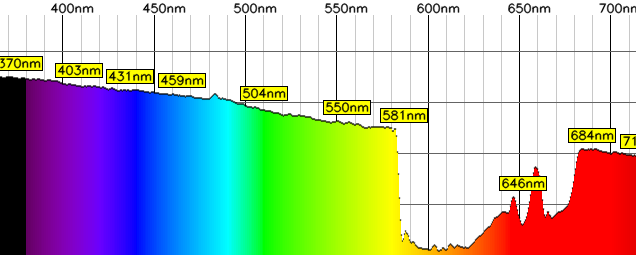
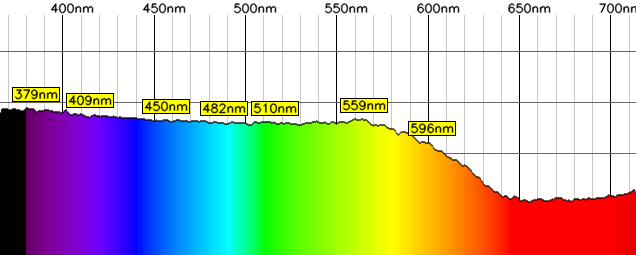
fix: turntable button add spectro caput data

Changed region(s): [[0.0, 0.2196, 1.0, 0.9882]]

diff --git a/labello/src/labello.py b/labello/src/labello.py
@@ -841,9 +841,27 @@ class GUI:
             print("error Plafe  status ")
             return
 
+        if (self.spectro_status != 'OK' ):
+            dialog = Gtk.MessageDialog(
+                title="Error spectro",
+                parent=self.window,
+                message_type=Gtk.MessageType.ERROR,
+                buttons=Gtk.ButtonsType.CLOSE,
+                text="Spectro not respond ! The shots will not include spectro data",
+                modal=True)
+            response = dialog.run()
+            if response == Gtk.ResponseType.CLOSE:
+                dialog.destroy()
+            return
+
+
         steps =  200 / nb_shots_int
         for i in range (nb_shots_int):
             self.start_image_captur(None)
+
+            if self.spectro_status == 'OK':
+                self.spectro_capture(None)
+
             time.sleep(0.1)
             self.save_current_image(None)
             self.refresh_all_components()

diff --git a/get_data_from_spectro_client.py b/get_data_from_spectro_client.py
@@ -3,6 +3,7 @@
 import socket
 
 IP = socket.gethostbyname(socket.gethostname())
+IP = "192.168.1.58"
 
 PORT = 5566
 ADDR = (IP, PORT)
